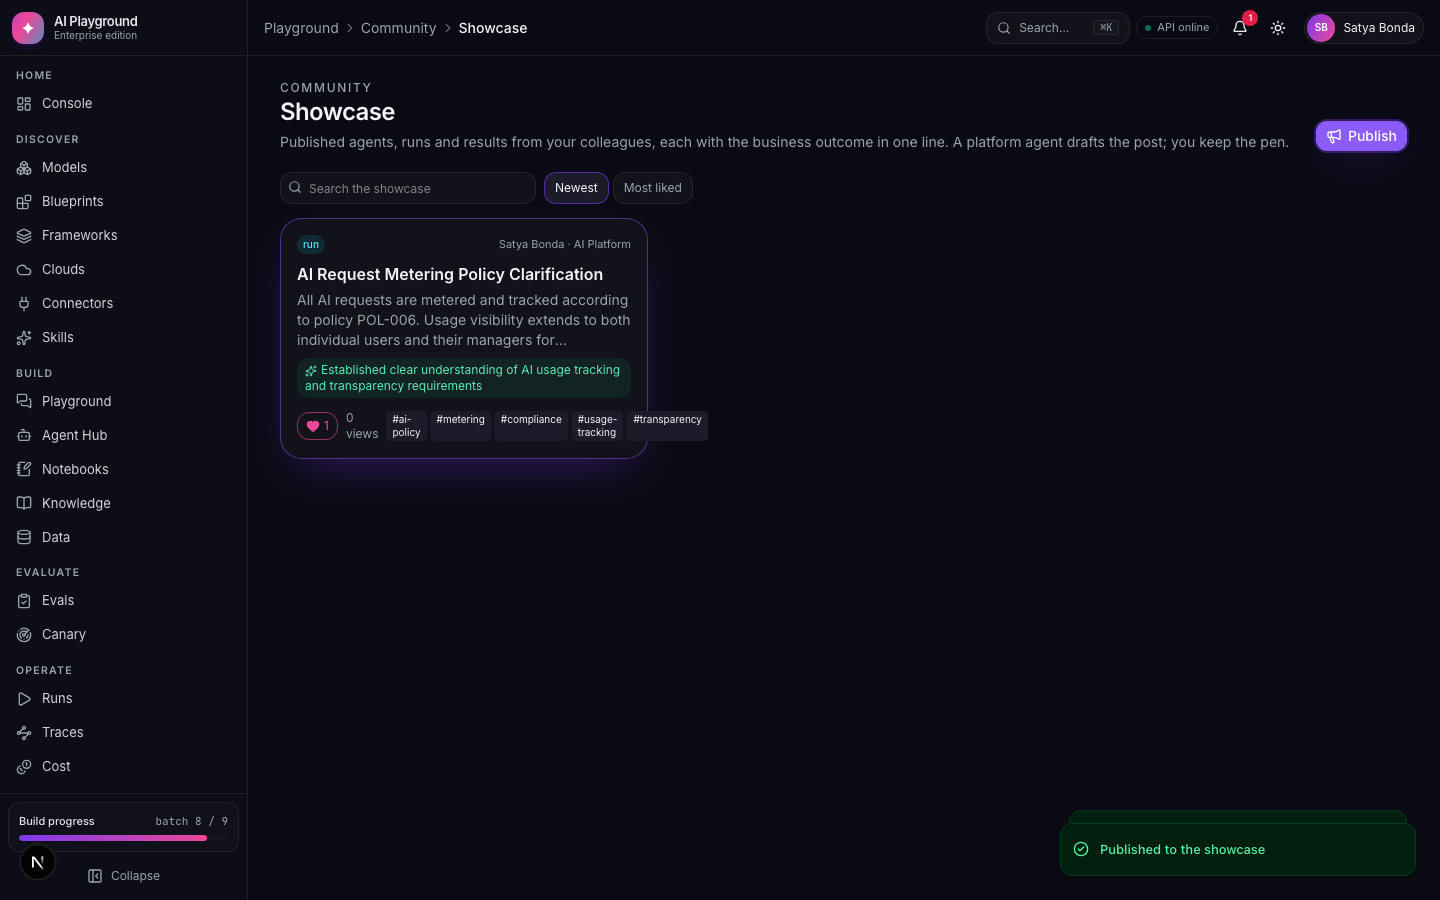
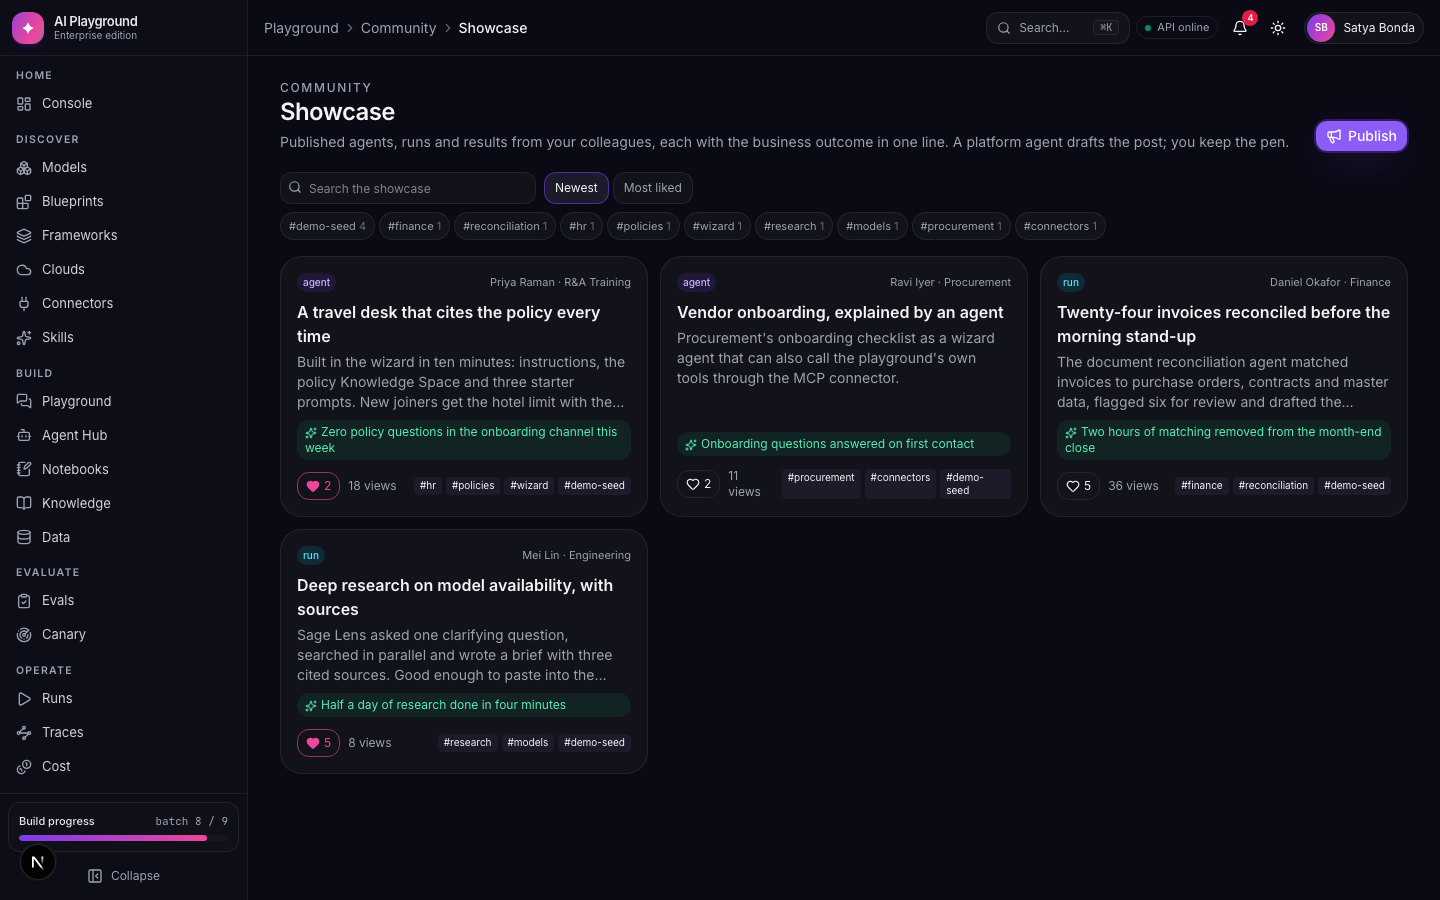
Batch 9: mark the final batch live, add control room and seeded screenshots to the docs

diff --git a/apps/web/src/lib/nav.ts b/apps/web/src/lib/nav.ts
@@ -94,4 +94,4 @@ export function findNavItem(pathname: string): { section: NavSection; item: NavI
   return null;
 }
 
-export const CURRENT_BATCH = 8;
+export const CURRENT_BATCH = 9;

diff --git a/README.md b/README.md
@@ -61,6 +61,7 @@ See [docs/DEMO_SCRIPT.md](docs/DEMO_SCRIPT.md) for a step-by-step walk through e
 | ![Agent Hub](docs/images/agents.png) Agent Hub with runnable blueprints | ![Run graph](docs/images/run-graph.png) A run in flight with its graph and step trace |
 | ![Review gate](docs/images/run-review.png) Human review gate that survives a restart | ![Catalog](docs/images/catalog.png) Blueprint catalog across six families |
 | ![Notebook](docs/images/notebook.png) A blueprint opened as a notebook in the browser | ![Frameworks](docs/images/frameworks.png) The same agent rendered as a CrewAI project |
+| ![Control room](docs/images/control-room.png) Any run as a control room: governed lanes, ledger, outcome | ![Adoption](docs/images/adoption.png) Adoption analytics with hours per feature and an ROI matrix |
 
 ## Quick start
 
